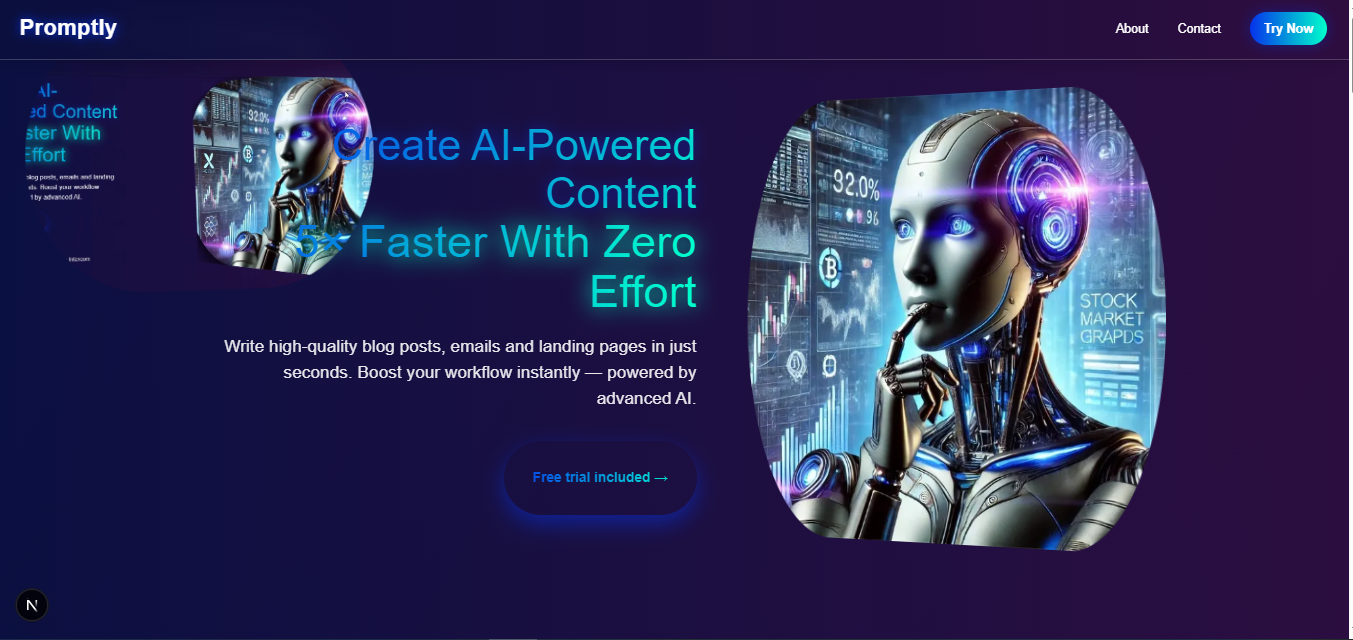
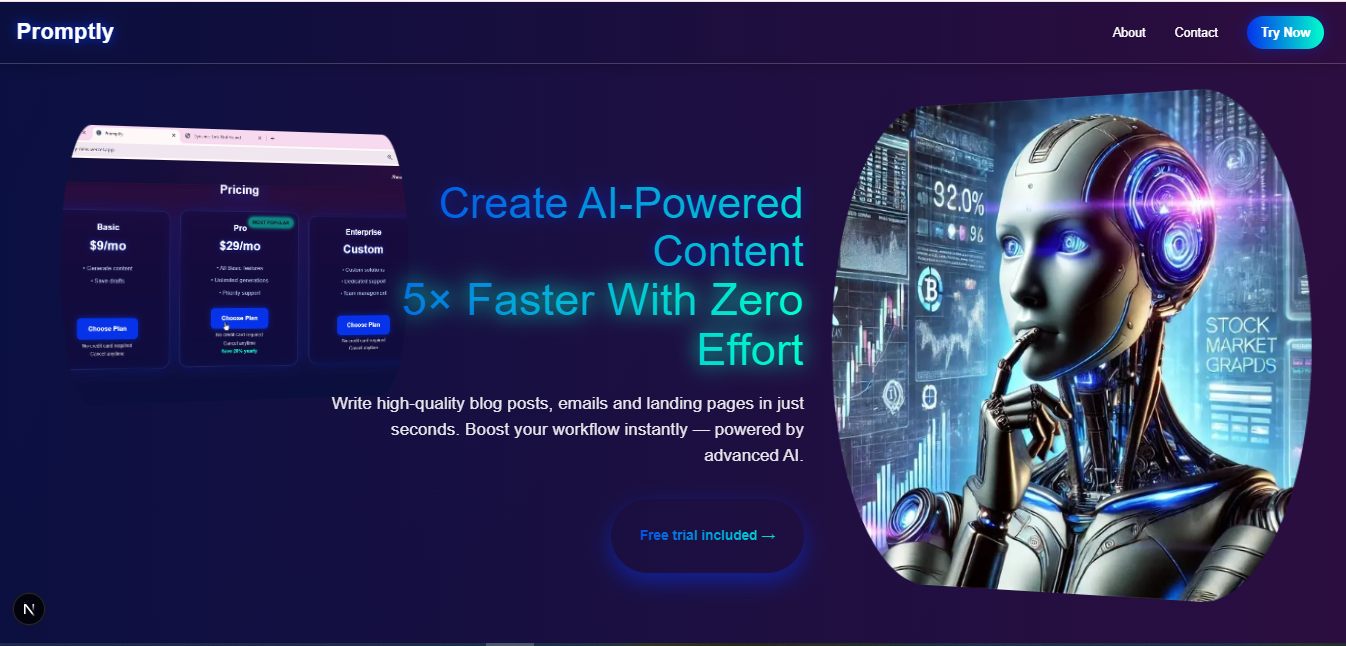
added Pro LICENSE

diff --git a/src/components/HeroModern.tsx b/src/components/HeroModern.tsx
@@ -14,7 +14,6 @@ export default function Hero() {
 
   const lastPos = useRef({ x: 0, y: 0 });
 
-  // Track window width
   useEffect(() => {
     setWindowWidth(window.innerWidth);
     const handleResize = () => setWindowWidth(window.innerWidth);
@@ -22,7 +21,9 @@ export default function Hero() {
     return () => window.removeEventListener("resize", handleResize);
   }, []);
 
-  const prefersReducedMotion = typeof window !== "undefined" && window.matchMedia("(prefers-reduced-motion: reduce)").matches;
+  const prefersReducedMotion =
+    typeof window !== "undefined" &&
+    window.matchMedia("(prefers-reduced-motion: reduce)").matches;
 
   // Mouse parallax effect
   const handleMouseMove = (e: React.MouseEvent) => {
@@ -49,7 +50,8 @@ export default function Hero() {
     if (rafRef.current) cancelAnimationFrame(rafRef.current);
 
     imageRef.current.style.transition = "transform 400ms cubic-bezier(.2,.9,.2,1)";
-    imageRef.current.style.transform = "perspective(1200px) rotateY(-15deg) rotateX(0deg)";
+    imageRef.current.style.transform =
+      "perspective(1200px) rotateY(-15deg) rotateX(0deg)";
 
     videoRef.current.style.transition = "transform 500ms ease-out";
     videoRef.current.style.transform = "perspective(1200px) rotateY(15deg) rotateX(0deg)";
@@ -83,26 +85,25 @@ export default function Hero() {
     if (pricingSection) pricingSection.scrollIntoView({ behavior: "smooth" });
   };
 
-  // Адаптив
   const isMobile = windowWidth < 768;
   const isTablet = windowWidth >= 768 && windowWidth < 1024;
   const isDesktop = windowWidth >= 1024;
 
-  // Видео размеры
+  // Video size
   const videoWidth = isMobile || isTablet ? "90%" : "400px";
   const videoHeight = isMobile || isTablet ? "200px" : "300px";
 
-  // Image style (правый угол, скрыть на планшете и мобильных)
+  // Image style for parallax
   const imageStyle: React.CSSProperties = {
     flex: "0 0 auto",
     borderRadius: "30% / 70%",
     overflow: "hidden",
     zIndex: 2,
     display: isDesktop ? "block" : "none",
-    width: "500px",
-    height: "500px",
+    width: "550px",
+    height: "550px",
     position: "absolute",
-    top: "20%",
+    top: "15%",
     right: "3%",
   };
 
@@ -119,7 +120,8 @@ export default function Hero() {
         justifyContent: "center",
         overflow: "hidden",
         flexWrap: isMobile ? "wrap" : "nowrap",
-        background: "linear-gradient(90deg, rgba(10,15,61,1) 0%, rgba(46,13,63,0.95) 100%)",
+        background:
+          "linear-gradient(90deg, rgba(10,15,61,1) 0%, rgba(46,13,63,0.95) 100%)",
         padding: "2rem",
       }}
     >
@@ -132,12 +134,13 @@ export default function Hero() {
           inset: 0,
           zIndex: 0,
           pointerEvents: "none",
-          background: "linear-gradient(120deg, rgba(255,255,255,0.08), rgba(0,255,204,0.05))",
+          background:
+            "linear-gradient(120deg, rgba(255,255,255,0.08), rgba(0,255,204,0.05))",
           mixBlendMode: "overlay",
         }}
       />
 
-      {/* Video (слева) */}
+      {/* Video  */}
       <div
         ref={videoRef}
         onMouseMove={handleMouseMove}
@@ -147,7 +150,7 @@ export default function Hero() {
           marginTop: isMobile ? "2rem" : "-8rem",
           marginLeft: isMobile ? 0 : "-19rem",
           marginBottom: isMobile ? "2rem" : 0,
-          flex: "0 0 auto", 
+          flex: "0 0 auto",
           width: videoWidth,
           height: videoHeight,
           borderRadius: "10% / 60%",
@@ -167,16 +170,16 @@ export default function Hero() {
         />
       </div>
 
-      {/* Text (центр) */}
+      {/* Text  */}
       <div
         style={{
           flex: "1 1 500px",
-          maxWidth: "500px",
-          marginLeft: isMobile ? 0 : "2rem",
+          maxWidth: "600px",
+          marginLeft: isMobile ? 0 : "-9em",
           marginRight: isMobile ? 0 : "12rem",
           padding: "2rem",
           color: "white",
-          textAlign: "center",
+          textAlign: "right",
           position: "relative",
           zIndex: 2,
           transform: visible ? "translateY(60px)" : "translateY(20px)",
@@ -240,13 +243,19 @@ export default function Hero() {
         </div>
       </div>
 
-      {/* Image (справа) */}
-      <div ref={imageRef} onMouseMove={handleMouseMove} onMouseLeave={handleMouseLeave} style={imageStyle}>
+      {/* Image  */}
+      <div
+        ref={imageRef}
+        onMouseMove={handleMouseMove}
+        onMouseLeave={handleMouseLeave}
+        style={imageStyle}
+      >
         <Image
           src="/1.webp"
           alt="Creative inspiration"
           fill
           sizes={isDesktop ? "50vw" : "90vw"}
+          quality={70}
           priority
           style={{ objectFit: "cover" }}
         />

diff --git a/src/components/Features.tsx b/src/components/Features.tsx
@@ -30,7 +30,6 @@ export default function FAQ() {
           const isOpen = openIndex === i;
           const contentRef = useRef<HTMLDivElement>(null);
 
-          // Управление высотой
           useEffect(() => {
             const el = contentRef.current;
             if (!el) return;
@@ -58,7 +57,7 @@ export default function FAQ() {
                 {faq.q}
               </button>
 
-              {/* Анимированная область */}
+              
               <div
                 id={`faq-panel-${i}`}
                 ref={contentRef}

diff --git a/src/components/SocialProof.tsx b/src/components/SocialProof.tsx
@@ -41,10 +41,10 @@ export default function SocialProof() {
   key={i}
   src={logo}
   alt={`Company ${i + 1}`}
-  loading="lazy" // 🔹 lazy loading
+  loading="lazy" 
   className={`h-16 object-contain opacity-80 hover:opacity-100 transition-all duration-700
     ${visible ? "opacity-80 translate-y-0 scale-100" : "opacity-0 translate-y-6 scale-90"}
-    hover:scale-105 hover:drop-shadow-[0_0_8px_#00ffcc]`} // 🔹 уменьшен drop-shadow
+    hover:scale-105 hover:drop-shadow-[0_0_8px_#00ffcc]`} 
   style={{ transitionDelay: `${i * 150}ms` }}
 />
 

diff --git a/src/components/FAQ.tsx b/src/components/FAQ.tsx
@@ -33,7 +33,7 @@ export default function FAQ() {
               key={i}
               className="p-6 rounded-2xl bg-[#1b0b29] transition-all duration-300 shadow-[0_0_15px_rgba(0,255,200,0.2)] hover:scale-105"
             >
-              {/* Кнопка вместо div → A11y OK */}
+            
               <button
                 className="w-full text-left font-semibold text-white"
                 aria-expanded={isOpen}

diff --git a/src/components/Footer.tsx b/src/components/Footer.tsx
@@ -62,7 +62,7 @@ export default function Footer() {
         </div>
       </div>
 
-      {/* Popup with smooth animation */}
+
       <div
         aria-live="polite"
         className={`absolute bottom-full left-1/2 -translate-x-1/2 mb-4 px-4 py-2 rounded-md bg-[#0533eb] text-white text-sm shadow-lg z-50 transition-all duration-300

diff --git a/src/components/Header.tsx b/src/components/Header.tsx
@@ -67,7 +67,7 @@ const Header = () => {
           </button>
         </nav>
 
-        {/* Mobile burger button with accessibility */}
+    
         <button
           aria-label="Open mobile menu"
           aria-expanded={open}

diff --git a/README.md b/README.md
@@ -23,7 +23,6 @@ It’s fully designed to **convert visitors into users** with strong visual and 
 ---
 
 ## 📦 Components Overview
-
 | Component | Icon | Description |
 |-----------|------|-------------|
 | `Header.tsx` | 🧭 | Navigation bar with logo, desktop & mobile menu, sticky CTA button |
@@ -148,5 +147,8 @@ Deploy to Vercel or Netlify:
 vercel --prod
 
 
-## 📄 License
-Commercial License © Tatev Hovhannisyan
+📄 License
+
+This template is released under the PRO Commercial License.
+See LICENSE-PRO.md for full terms.
+Commercial use: unlimited projects, client work allowed.
